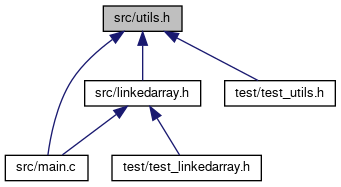
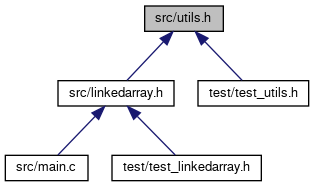
deploy: d9399f37b8335d0691b767d238b10044851c304e

diff --git a/main_8c.html b/main_8c.html
@@ -77,28 +77,23 @@ $(function() {
 <div class="textblock"><code>#include &lt;stdio.h&gt;</code><br />
 <code>#include &lt;stdlib.h&gt;</code><br />
 <code>#include &quot;<a class="el" href="linkedarray_8h_source.html">linkedarray.h</a>&quot;</code><br />
-<code>#include &quot;<a class="el" href="utils_8h_source.html">utils.h</a>&quot;</code><br />
-<code>#include &lt;assert.h&gt;</code><br />
 </div><div class="textblock"><div class="dynheader">
 Include dependency graph for main.c:</div>
 <div class="dyncontent">
 <div class="center"><img src="main_8c__incl.png" border="0" usemap="#asrc_2main_8c" alt=""/></div>
 <map name="asrc_2main_8c" id="asrc_2main_8c">
-<area shape="rect" title="DSA2021 HW1 P6: K least member. This package is majorly done by myself. The algorithm part is inspire..." alt="" coords="165,5,247,32"/>
+<area shape="rect" title="DSA2021 HW1 P6: K least member. This package is majorly done by myself. The algorithm part is inspire..." alt="" coords="78,5,161,32"/>
 <area shape="rect" title=" " alt="" coords="5,155,65,181"/>
 <area shape="rect" title=" " alt="" coords="89,155,152,181"/>
-<area shape="rect" href="linkedarray_8h.html" title="Unrolled linked list for finding K&#45;least element." alt="" coords="159,80,253,107"/>
-<area shape="rect" title=" " alt="" coords="309,229,377,256"/>
-<area shape="rect" href="utils_8h.html" title="General Utilities for C language." alt="" coords="315,155,371,181"/>
-<area shape="rect" title=" " alt="" coords="227,155,291,181"/>
+<area shape="rect" href="linkedarray_8h.html" title="Unrolled linked list for finding K&#45;least element." alt="" coords="157,80,252,107"/>
+<area shape="rect" title=" " alt="" coords="203,229,271,256"/>
+<area shape="rect" title=" " alt="" coords="307,155,371,181"/>
+<area shape="rect" href="utils_8h.html" title="General Utilities for C language." alt="" coords="177,155,233,181"/>
 </map>
 </div>
 </div><table class="memberdecls">
 <tr class="heading"><td colspan="2"><h2 class="groupheader"><a name="func-members"></a>
 Functions</h2></td></tr>
-<tr class="memitem:a79cde96121d811fd3c6386b95f1b311c"><td class="memItemLeft" align="right" valign="top"><a id="a79cde96121d811fd3c6386b95f1b311c"></a>
-<a class="el" href="linkedarray_8h.html#a76c89d93b728f8bb31e4ea1405558bde">LnkArr</a> *&#160;</td><td class="memItemRight" valign="bottom"><b>createlistRandom</b> (int Len)</td></tr>
-<tr class="separator:a79cde96121d811fd3c6386b95f1b311c"><td class="memSeparator" colspan="2">&#160;</td></tr>
 <tr class="memitem:ae66f6b31b5ad750f1fe042a706a4e3d4"><td class="memItemLeft" align="right" valign="top"><a id="ae66f6b31b5ad750f1fe042a706a4e3d4"></a>
 int&#160;</td><td class="memItemRight" valign="bottom"><b>main</b> ()</td></tr>
 <tr class="separator:ae66f6b31b5ad750f1fe042a706a4e3d4"><td class="memSeparator" colspan="2">&#160;</td></tr>

diff --git a/utils_8h.html b/utils_8h.html
@@ -89,10 +89,10 @@ This graph shows which files directly or indirectly include this file:</div>
 <div class="dyncontent">
 <div class="center"><img src="utils_8h__dep__incl.png" border="0" usemap="#asrc_2utils_8hdep" alt=""/></div>
 <map name="asrc_2utils_8hdep" id="asrc_2utils_8hdep">
-<area shape="rect" title="General Utilities for C language." alt="" coords="103,5,182,32"/>
-<area shape="rect" href="linkedarray_8h.html" title="Unrolled linked list for finding K&#45;least element." alt="" coords="85,80,201,107"/>
+<area shape="rect" title="General Utilities for C language." alt="" coords="145,5,223,32"/>
+<area shape="rect" href="linkedarray_8h.html" title="Unrolled linked list for finding K&#45;least element." alt="" coords="58,80,174,107"/>
+<area shape="rect" href="test__utils_8h.html" title="Test utility functions." alt="" coords="198,80,309,107"/>
 <area shape="rect" href="main_8c.html" title="DSA2021 HW1 P6: K least member. This package is majorly done by myself. The algorithm part is inspire..." alt="" coords="5,155,88,181"/>
-<area shape="rect" href="test__utils_8h.html" title="Test utility functions." alt="" coords="225,80,335,107"/>
 <area shape="rect" href="test__linkedarray_8h.html" title=" " alt="" coords="112,155,261,181"/>
 </map>
 </div>
